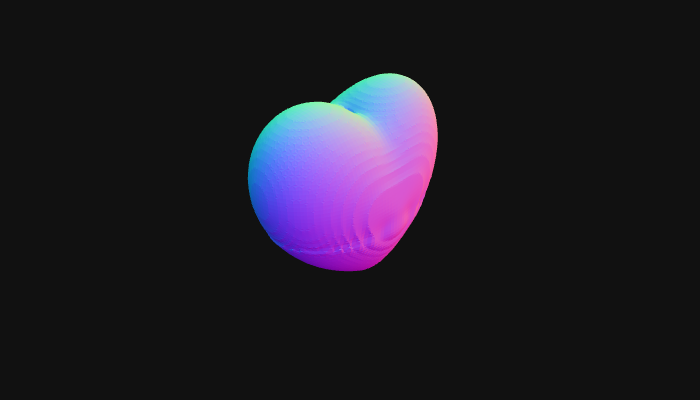
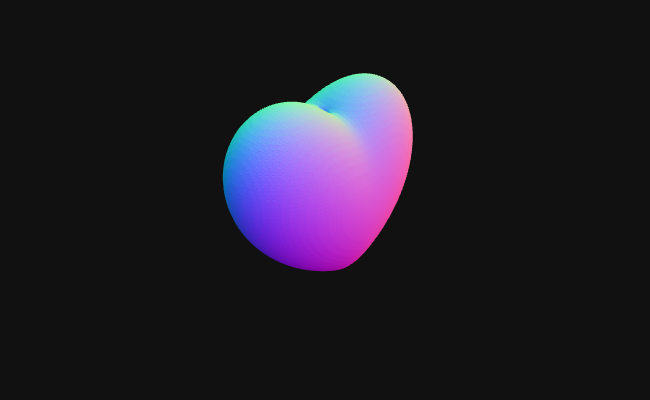
Changes to incorporate @eccheng's heart fix
Needed to include polyfill for cube root, which required doing
something hideous to get the cube root function into the webworker in
browsers that don’t implement it (since one cannot pass even global
variables back and forth, as far as I can tell). Behld!

diff --git a/src/lecture-1.md b/src/lecture-1.md
@@ -61,7 +61,7 @@ physical understanding/intuition than symbol pushing. Here's a rough
 //]]>
 </script>
 
-## 1. Modeling 3D space: Cartesian coordinates
+### 1. Modeling 3D space: Cartesian coordinates
 
 What is 3D space? Here's a picture:
 <br><br><br></br></br></br>
@@ -81,7 +81,7 @@ numbers.") Here's a picture you probably recognize:
 
 ![](media/cartesian.png)
 
-## 2. Objects in space: points and distance!
+### 2. Objects in space: points and distance!
 
 **Exercise:** In the picture, how far is $(x, y, z)$ ("the point x, y, z")
 from the origin, $(0, 0, 0)$? Remember the Pythagorean Theorem as you try
@@ -112,7 +112,7 @@ We can now describe shapes, at least implicitly!
 (Don't worry if you can't do all of these now. Start worrying if you still
 can't do them after we've gone over quadric surfaces.)
 
-## 3. Distinguishing objects in space
+### 3. Distinguishing objects in space
 
 What makes this shape...
 <div id="sphere">
@@ -172,26 +172,93 @@ surface area, volume, ....
 (lines, curves, surfaces, etc.)? Can you make any of them rigorous enough
 to compute for some toy examples?
 
-## 4. What about the trefoil riders?
+### 4. What about the trefoil riders?
 
 Finding out whether or not the trefoil riders will black out will have
 to wait until we've developed enough tools to define and compute the
 acceleration of a point in space.
 
-In the mean time, here's some math love to end on:
+In the meantime, here's some math love to end on:
 <div id="heart">
   <img src="media/lecture-1-heart.png"></img>
 </div>
 <script type="text/javascript">
 //<![CDATA[
 (function() {
-    var scene = new MathScene("heart");
-    var f = function (x, y, z) {
-        return x * x + (9/4) * y * y + z * z - 1 - z * Math.cbrt(x * x + (9/80) * y * y);
+    // polyfill for browsers that don't support Math.cbrt
+    var cbrt =  function (x) {
+        var y = Math.pow(Math.abs(x), 1/3);
+        return x < 0 ? -y : y;
     }
-    var mc = new MarchingCubesModel({func: f, resolution: 150, smoothingLevel: 1});
+
+    var cbr = (Math.cbrt === undefined) ? cbrt : Math.cbrt;
+
+    var scene = new MathScene("heart");
+  
+    /*This awful dynamic code rewrite ensures that the right string is passed 
+    into the worker, so that the correct randomly constructed property of self 
+    is used for the cube root. Please forgive me. Is it possible that using 
+    func.toString() in MathModel when creating the blob for the worker can
+    be improved to avoid this?
+    Once everyone has Math.cbrt, we can just do the following:
+
+    var F = function (x, y, z) {
+        return x * x + (9/4) * y * y + z * z - 1 - z * Math.cbrt(x * x + (9/80) * y * y);
+      };
+    */
+
+    var f = "return x * x + (9/4) * y * y + z * z - 1 - z * READYFORACHANGE(x * x + (9/80) * y * y);";
+    var funcCode = f.toString().replace("READYFORACHANGE", cbr.toString());
+    var F = new Function(["x", "y", "z"], funcCode);
+    var mc = new MarchingCubesModel({func: F, resolution: 150});
     mc.embedInScene(scene);
 }());
 //]]>
 </script>
-Want to know the equation? Read the source.
+Want to know the equation? Read the appendix.
+
+### 5. Appendix: the heart
+
+The heart you see above is the set of solutions to the equation $$f(x, y, z) = (x^2+\frac{9}{4}y^2+z^2-1)^3-x^2z^3-\frac{9}{80}y^2z^3 = 0.$$ It is being shown to you using algorithms that compute solution sets to equations like this (those solutions sets are called "isosurfaces").
+
+As a naive mathematician, I decided to implement this directly. That is, use the equation above together with the simple isosurface algorithms I've chosen. Here's the result: 
+
+<div id="heart-2">
+  <img src="media/lecture-1-heart-2.png"></img>
+</div>
+<script type="text/javascript">
+//<![CDATA[
+(function() {
+    var scene = new MathScene("heart-2");
+    var f = function (x, y, z) {
+        return Math.pow(x * x + (9/4) * y * y + z * z - 1, 3) - x * x * z * z * z - (9/80) * y * y * z * z * z;
+    }
+    var mc = new MarchingCubesModel({func: f, resolution: 150});
+    mc.embedInScene(scene);
+}());
+//]]>
+</script>
+
+What happened? There's a weird "belt" around the heart! Where does it come from? The algorithm that computes the isosurface works roughly like this:
+
+- Divide space into cubes
+- Evaluate the function on the corners of each cube
+- If the function is positive on some corners and negative on others, this means that the locus where the function takes the value $0$ passes through the cube
+- Figure out how to approximate the function in the cube. The classical algorithm known as "marching cubes" does this linearly. There are more sophisticated ways, but they all come down to making some kind of local approximation.
+
+Now, @eccheng made a clever observation. The zero locus of the function $f(x, y, z)$ is the same as the locus where
+
+$$(x^2+\frac{9}{4}y^2+z^2-1)^3= z^3(x^2-\frac{9}{80}y^2),$$
+
+and, taking cube roots, this is the same as solving
+
+$$x^2+\frac{9}{4}y^2+z^2-1 = z \sqrt[3]{x^2-\frac{9}{80}y^2}.$$
+
+Why is this a good observation to make? Well, while *taking integer powers makes changes get more drastic*, we have that *taking integer roots makes changes more gentle*. If we are trying to use a mesh to approximate the vanishing locus of a function, it is better to use a function with gentler changes, given a fixed mesh resolution.
+
+**Lesson**: formulations that are *mathematically equivalent* can be *computationally inequivalent*. By understanding the underlying properties of a mathematical object, one can make better *practical* decisions. (Similar: read about numerical integration, tracking, and Kalman filters.)
+
+**Challenge**: justify this rigorously with mathematics.
+
+### Content Contributors
+@maxlieblich, @jpswanson, @eccheng
